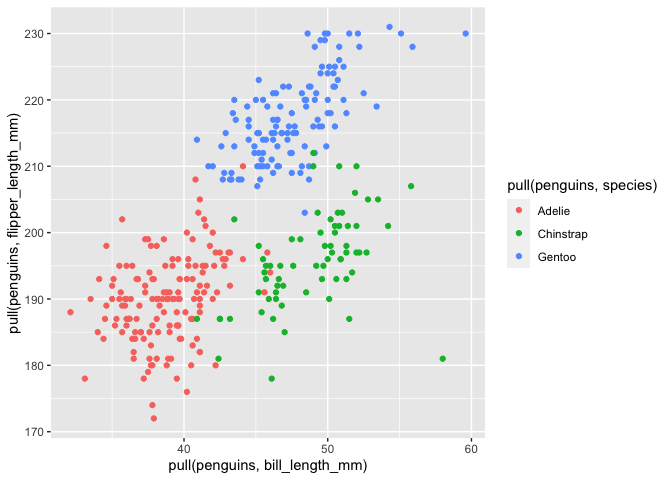
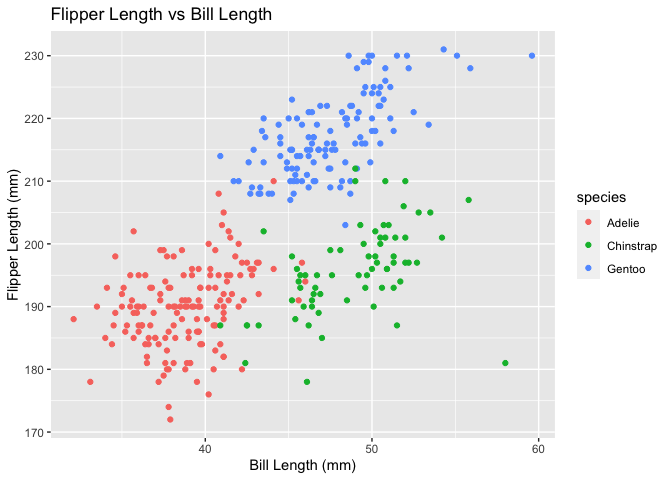
updates to scatter plot: filename more descriptive, removed superfluous code, added title and axis labels

diff --git a/p8105_hw_fde2103.md b/p8105_hw_fde2103.md
@@ -6,14 +6,14 @@ Fiona Ehrich
 library(tidyverse)
 ```
 
-    ## ── Attaching packages ──────────────────────────────────────────────────────────────────────────── tidyverse 1.3.0 ──
+    ## ── Attaching packages ─────────────────────────────────────────────────── tidyverse 1.3.0 ──
 
     ## ✓ ggplot2 3.3.2     ✓ purrr   0.3.4
     ## ✓ tibble  3.0.3     ✓ dplyr   1.0.2
     ## ✓ tidyr   1.1.2     ✓ stringr 1.4.0
     ## ✓ readr   1.3.1     ✓ forcats 0.5.0
 
-    ## ── Conflicts ─────────────────────────────────────────────────────────────────────────────── tidyverse_conflicts() ──
+    ## ── Conflicts ────────────────────────────────────────────────────── tidyverse_conflicts() ──
     ## x dplyr::filter() masks stats::filter()
     ## x dplyr::lag()    masks stats::lag()
 
@@ -41,13 +41,13 @@ prob1_df =
 mean(pull(prob1_df, samp))
 ```
 
-    ## [1] 0.04413509
+    ## [1] -0.3957472
 
 ``` r
 mean(pull(prob1_df, samp_gt_0))
 ```
 
-    ## [1] 0.6
+    ## [1] 0.2
 
 ``` r
 mean(pull(prob1_df, char_vec))
@@ -93,8 +93,8 @@ becomes a collection of 1s, 2s, and 3s (representing the three levels).
 as.numeric(pull(prob1_df, samp_gt_0)) * (pull(prob1_df, samp))
 ```
 
-    ##  [1] 0.0000000 0.0000000 1.2540138 0.1441366 0.4440258 0.3410536 1.2150745
-    ##  [8] 2.0814073 0.0000000 0.0000000
+    ##  [1] 0.000000 0.000000 0.000000 0.000000 0.000000 0.000000 0.000000 0.000000
+    ##  [9] 1.045392 1.735339
 
 ``` r
 as.factor(pull(prob1_df, samp_gt_0)) * (pull(prob1_df, samp))
@@ -109,8 +109,8 @@ as.factor(pull(prob1_df, samp_gt_0)) * (pull(prob1_df, samp))
 as.numeric(as.factor(pull(prob1_df, samp_gt_0))) * (pull(prob1_df, samp))
 ```
 
-    ##  [1] -1.3839675 -0.8813720  2.5080277  0.2882732  0.8880515  0.6821073
-    ##  [7]  2.4301490  4.1628146 -1.3913501 -1.3816712
+    ##  [1] -0.2745060 -0.3707108 -2.1180733 -0.4551973 -1.1673499 -0.3549611
+    ##  [7] -1.7399390 -0.2574660  2.0907846  3.4706784
 
 ## Problem 2
 
@@ -192,7 +192,11 @@ values (NA’s) in this dataset.
 #### Generate and export scatterplot of `flipper_length_mm` (y) vs `bill_length_mm` (x).
 
 ``` r
-ggplot(penguins, aes(x = pull(penguins, bill_length_mm), y = pull(penguins, flipper_length_mm), color = pull(penguins, species))) + geom_point()
+ggplot(penguins, aes(x = bill_length_mm, y = flipper_length_mm, color = species)) +
+  geom_point() +
+  ggtitle("Flipper Length vs Bill Length") +
+  xlab("Bill Length (mm)") +
+  ylab("Flipper Length (mm)")
 ```
 
     ## Warning: Removed 2 rows containing missing values (geom_point).
@@ -200,7 +204,7 @@ ggplot(penguins, aes(x = pull(penguins, bill_length_mm), y = pull(penguins, flip
 ![](p8105_hw_fde2103_files/figure-gfm/peng_scatterplot-1.png)<!-- -->
 
 ``` r
-ggsave("scatter.plot.pdf", height = 4, width = 6)
+ggsave("penguin_scatter_plot.pdf", height = 4, width = 6)
 ```
 
     ## Warning: Removed 2 rows containing missing values (geom_point).
